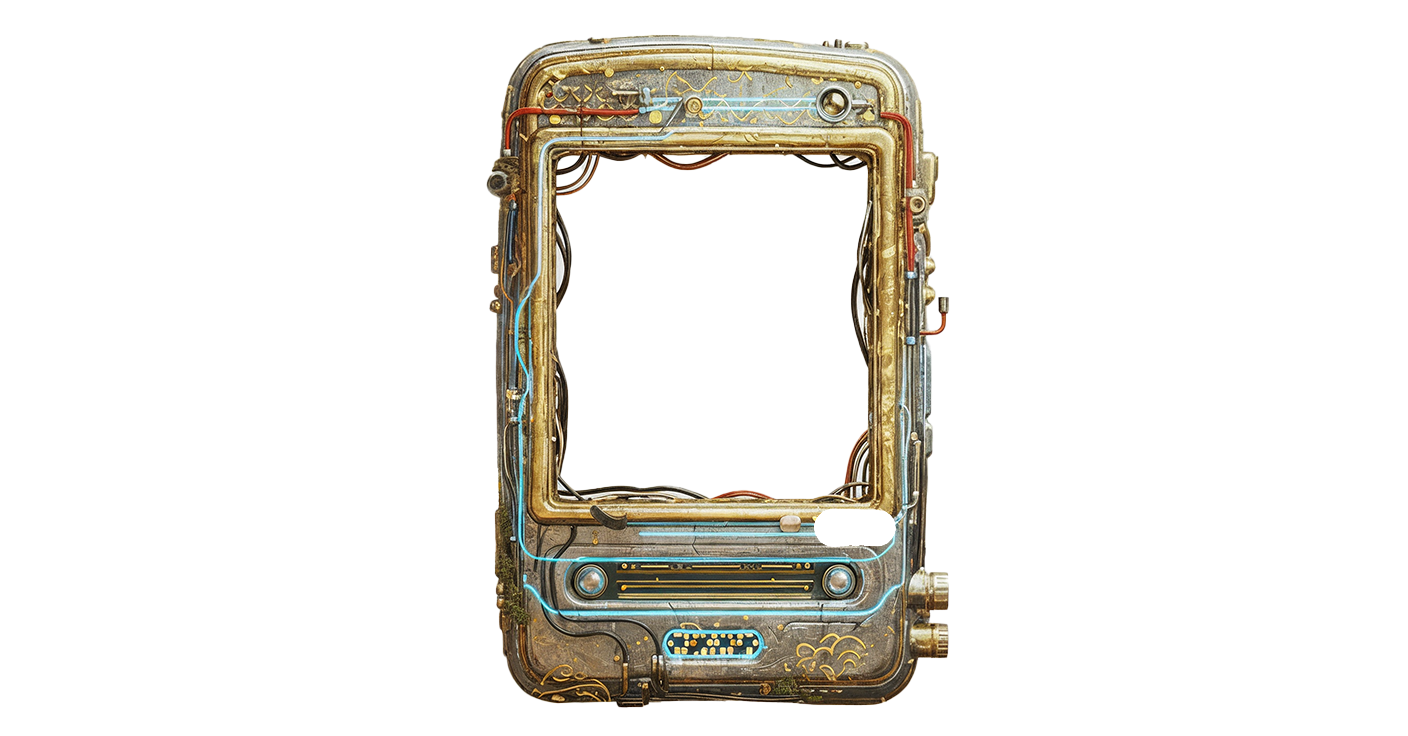
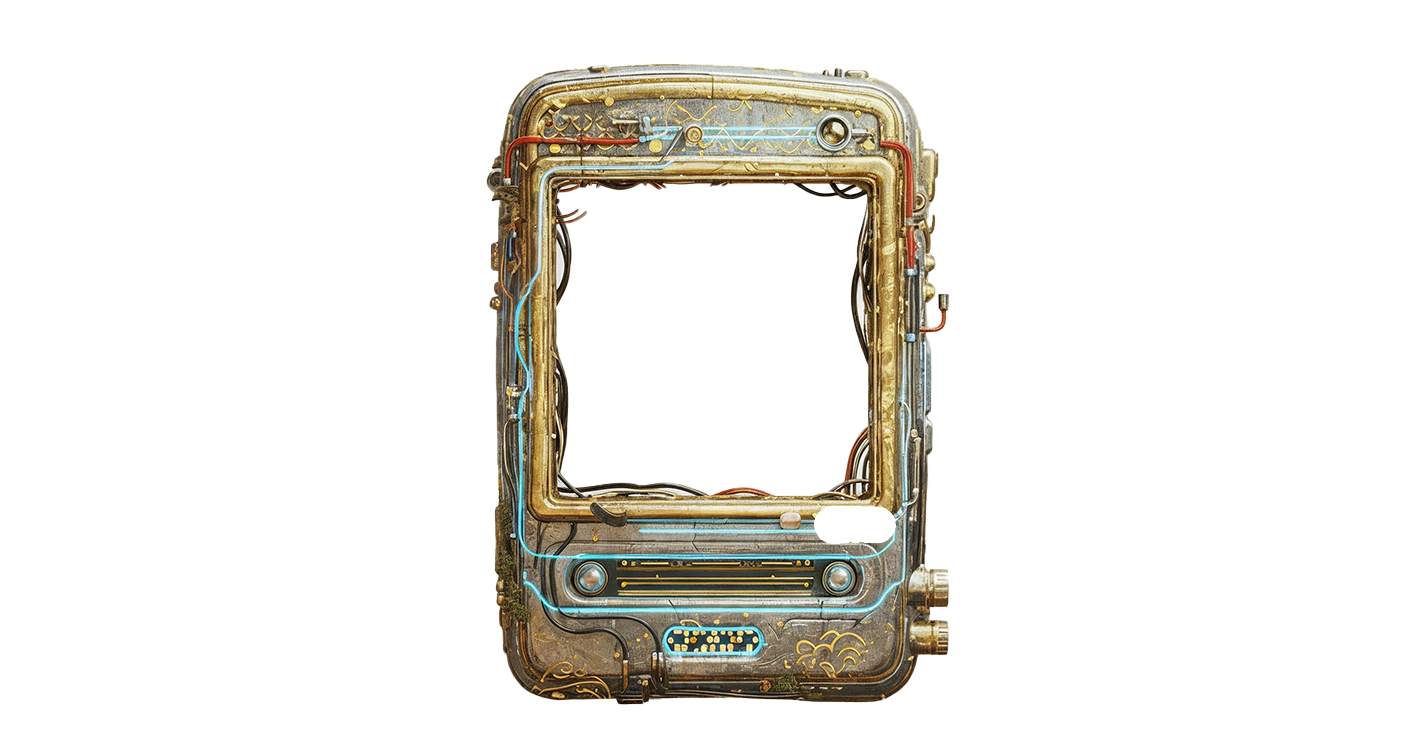
Update frame_5 and move title above overlay
- Updated frame_5.png with latest edits
- Moved SQUATCHAT title to z-30 (above overlay)
- Title now visible above device frame

🤖 Generated with [Claude Code](https://claude.ai/code)

Changed region(s): [[0.3438, 0.0312, 0.6875, 0.9688]]

diff --git a/components/HeroScene.tsx b/components/HeroScene.tsx
@@ -123,7 +123,7 @@ export default function HeroScene() {
       <MobileSoundToggle />
       
       {/* App Title */}
-      <div className="fixed top-8 left-0 right-0 z-20 flex justify-center">
+      <div className="fixed top-8 left-0 right-0 z-30 flex justify-center">
         <h1 className="text-5xl md:text-7xl font-black text-white uppercase"
             style={{ 
               fontFamily: "'Bebas Neue', 'Impact', 'Arial Black', sans-serif",
